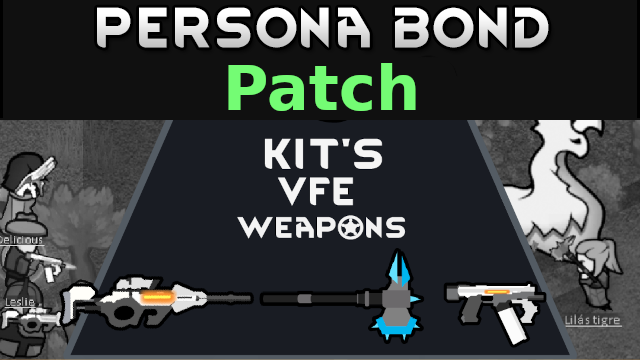
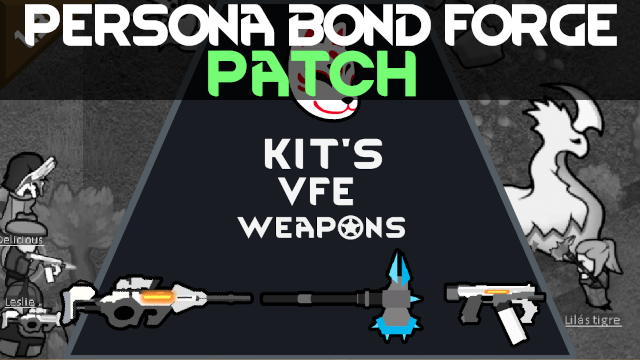
Update Preview.png and README.md

Changed region(s): [[0.0, 0.0, 1.0, 0.3361], [0.7188, 0.2444, 1.0, 0.3361], [0.0, 0.275, 0.2812, 0.3361]]

diff --git a/README.md b/README.md
@@ -2,6 +2,14 @@
 
 ![](https://github.com/Daria40K/Persona-Bond-Patch-for-Kits-VFE-Weapons/blob/main/About/Preview.png)
 
+## Required Mods
+- [Persona Bond Forge](https://steamcommunity.com/workshop/filedetails/?id=2178003816) (Steam)
+- [Kit's VFE Weapons](https://steamcommunity.com/sharedfiles/filedetails/?id=2433372089) (Steam)
+
+## Download
+- [Steam](https://steamcommunity.com/sharedfiles/filedetails/?id=2755049125)
+- [GitHub](https://github.com/Daria40K/Persona-Bond-Patch-for-Kits-VFE-Weapons/releases)
+
 ## Weapons Patch
 - crypto hammer
 - crypto knife
